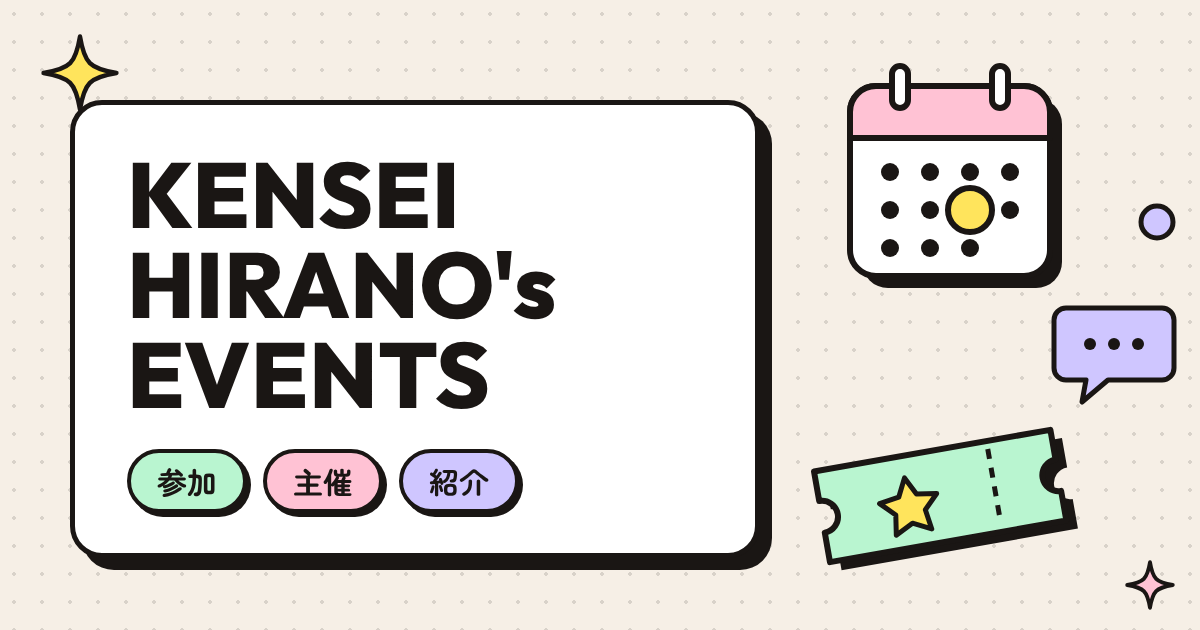
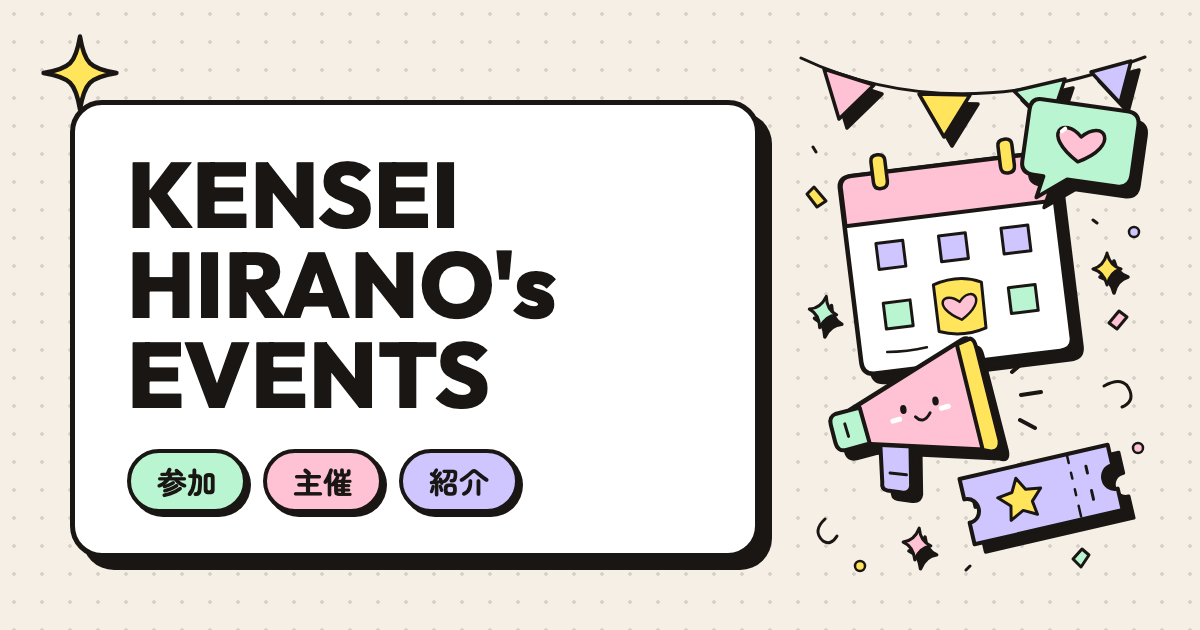
共有画像のイラストを Codex で描いたものに差し替える (#25)
- tools/og-share.html の右側の手描き SVG を Codex 製の SVG イラストに置き換え
- images/og-share.png を 1200×630 で撮り直し
- og:image / twitter:image を ?v=3 に更新

diff --git a/tools/og-share.html b/tools/og-share.html
@@ -13,33 +13,103 @@ svg{position:absolute;overflow:visible}
 </style></head><body>
 <!-- sparkle top-left -->
 <svg style="left:40px;top:28px" width="80" height="90" viewBox="0 0 90 90"><path d="M45 4 C50 34 56 40 86 45 C56 50 50 56 45 86 C40 56 34 50 4 45 C34 40 40 34 45 4Z" fill="var(--yel)" stroke="#1a1614" stroke-width="5" stroke-linejoin="round"/></svg>
-<!-- calendar -->
-<svg style="left:840px;top:58px" width="250" height="250" viewBox="0 0 250 250">
- <rect x="22" y="40" width="200" height="190" rx="26" fill="#1a1614"/>
- <rect x="10" y="28" width="200" height="190" rx="26" fill="#fff" stroke="#1a1614" stroke-width="6"/>
- <path d="M10 54 a26 26 0 0 1 26-26 h148 a26 26 0 0 1 26 26 v26 h-200z" fill="var(--pink)" stroke="#1a1614" stroke-width="6" stroke-linejoin="round"/>
- <rect x="52" y="8" width="16" height="42" rx="8" fill="#fff" stroke="#1a1614" stroke-width="6"/>
- <rect x="152" y="8" width="16" height="42" rx="8" fill="#fff" stroke="#1a1614" stroke-width="6"/>
- <g fill="#1a1614"><circle cx="50" cy="114" r="9"/><circle cx="90" cy="114" r="9"/><circle cx="130" cy="114" r="9"/><circle cx="170" cy="114" r="9"/><circle cx="50" cy="152" r="9"/><circle cx="90" cy="152" r="9"/><circle cx="170" cy="152" r="9"/><circle cx="50" cy="190" r="9"/><circle cx="90" cy="190" r="9"/><circle cx="130" cy="190" r="9"/></g>
- <circle cx="130" cy="152" r="22" fill="var(--yel)" stroke="#1a1614" stroke-width="6"/>
+<!-- illustration (drawn by Codex) -->
+<svg style="left:780px;top:30px" xmlns="http://www.w3.org/2000/svg" width="400" height="570" viewBox="0 0 400 570" fill="none" stroke="#1a1614" stroke-width="3.5" stroke-linecap="round" stroke-linejoin="round">
+  <defs>
+    <path id="calendar" d="M70 145 Q70 134 83 134 H269 Q282 134 282 147 V321 Q282 333 269 333 H83 Q70 333 70 320 Z"/>
+    <path id="bubble" d="M255 75 Q244 75 244 87 V139 Q244 151 257 151 H267 L263 173 L291 151 H341 Q354 151 354 138 V88 Q354 75 341 75 Z"/>
+    <path id="ticket" d="M185 431 H337 V452 C321 452 321 476 337 476 V498 H185 V476 C201 476 201 452 185 452 Z"/>
+    <path id="horn" d="M72 372 L193 318 Q201 315 202 326 L213 424 Q214 436 204 431 L83 408 Z"/>
+    <path id="sparkle" d="M0-16 Q3-3 14 0 Q3 3 0 16 Q-3 3-14 0 Q-3-3 0-16 Z"/>
+  </defs>
+
+  <!-- A loose string of party pennants. -->
+  <path d="M21 28 Q173 100 365 27" stroke-width="3"/>
+  <g transform="translate(8 9)" fill="#1a1614">
+    <path d="M44 39 L94 55 L59 89 Z"/>
+    <path d="M139 64 L190 65 L164 107 Z"/>
+    <path d="M234 61 L285 49 L269 96 Z"/>
+    <path d="M311 42 L351 31 L340 73 Z"/>
+  </g>
+  <path d="M44 39 L94 55 L59 89 Z" fill="#ffc2d4"/>
+  <path d="M139 64 L190 65 L164 107 Z" fill="#ffe45c"/>
+  <path d="M234 61 L285 49 L269 96 Z" fill="#b9f5d0"/>
+  <path d="M311 42 L351 31 L340 73 Z" fill="#cfc6ff"/>
+
+  <!-- A calendar with one much-loved day. -->
+  <g transform="rotate(-7 176 234)">
+    <use href="#calendar" transform="translate(9 10)" fill="#1a1614"/>
+    <use href="#calendar" fill="#ffffff" stroke-width="4.5"/>
+    <path d="M71 183 V147 Q70 134 83 134 H269 Q282 134 282 147 V183 Z" fill="#ffc2d4" stroke-width="4"/>
+    <path d="M104 143 V122 Q104 116 111 116 Q118 116 118 122 V143 Q118 150 111 150 Q104 150 104 143 Z" fill="#ffe45c"/>
+    <path d="M232 143 V122 Q232 116 239 116 Q246 116 246 122 V143 Q246 150 239 150 Q232 150 232 143 Z" fill="#ffe45c"/>
+    <path d="M99 204 H126 V230 H99 Z M162 204 H189 V230 H162 Z M225 204 H252 V230 H225 Z" fill="#cfc6ff" stroke-width="3"/>
+    <path d="M99 264 H126 V290 H99 Z M225 264 H252 V290 H225 Z" fill="#b9f5d0" stroke-width="3"/>
+    <path d="M151 252 Q177 244 199 255 L198 301 Q174 308 151 299 Z" fill="#ffe45c" stroke-width="3"/>
+    <path d="M175 290 C145 273 161 258 175 272 C188 256 205 273 175 290 Z" fill="#ffc2d4" stroke-width="2.5"/>
+    <path d="M97 313 Q117 315 137 313" stroke-width="2.5"/>
+  </g>
+
+  <!-- A friendly conversation above the calendar. -->
+  <g transform="rotate(8 300 123)">
+    <use href="#bubble" transform="translate(9 9)" fill="#1a1614"/>
+    <use href="#bubble" fill="#b9f5d0" stroke-width="4"/>
+    <path d="M299 132 C258 109 279 88 299 107 C319 85 340 110 299 132 Z" fill="#ffc2d4"/>
+    <path d="M279 104 L282 101" stroke="#ffffff" stroke-width="4"/>
+  </g>
+
+  <!-- The little megaphone is ready to invite everyone. -->
+  <g transform="rotate(-8 128 391)">
+    <g transform="translate(9 10)" fill="#1a1614">
+      <path d="M98 403 L128 408 L122 456 Q120 463 112 461 L98 457 Q92 455 94 448 Z"/>
+      <use href="#horn"/>
+      <path d="M57 374 L82 371 L87 408 L63 411 Q54 412 53 402 L51 384 Q50 376 57 374 Z"/>
+    </g>
+    <path d="M98 403 L128 408 L122 456 Q120 463 112 461 L98 457 Q92 455 94 448 Z" fill="#cfc6ff" stroke-width="4"/>
+    <path d="M103 440 L119 444" stroke-width="3"/>
+    <use href="#horn" fill="#ffc2d4" stroke-width="4.5"/>
+    <path d="M187 322 L201 318 Q205 319 206 329 L216 423 Q216 433 207 433 L198 430 Z" fill="#ffe45c" stroke-width="4"/>
+    <path d="M57 374 L82 371 L87 408 L63 411 Q54 412 53 402 L51 384 Q50 376 57 374 Z" fill="#b9f5d0" stroke-width="4"/>
+    <path d="M65 385 L67 398" stroke-width="3"/>
+    <ellipse cx="125" cy="379" rx="3.2" ry="4.5" fill="#1a1614" stroke="none"/>
+    <ellipse cx="158" cy="375" rx="3.2" ry="4.5" fill="#1a1614" stroke="none"/>
+    <path d="M136 388 Q143 397 151 386" stroke-width="3"/>
+    <path d="M113 389 L120 388 M163 383 L170 382" stroke="#ffffff" stroke-width="5"/>
+  </g>
+  <path d="M232 342 L245 331 M241 365 L261 362 M240 390 L255 398" stroke-width="4"/>
+
+  <!-- A keepsake ticket tucked into the foreground. -->
+  <g transform="rotate(-13 261 464)">
+    <use href="#ticket" transform="translate(9 10)" fill="#1a1614"/>
+    <use href="#ticket" fill="#cfc6ff" stroke-width="4"/>
+    <path d="M295 433 V440 M295 450 V456 M295 467 V473 M295 484 V495" stroke-width="2.5"/>
+    <path d="M240 443 L247 456 L262 458 L251 469 L253 483 L240 476 L226 483 L229 469 L218 458 L233 456 Z" fill="#ffe45c" stroke-width="3"/>
+    <path d="M311 447 V454 M311 472 V481" stroke-width="3"/>
+  </g>
+
+  <!-- Scattered handmade party bits and four-point stars. -->
+  <g transform="translate(327 239)">
+    <use href="#sparkle" transform="translate(7 8)" fill="#1a1614"/>
+    <use href="#sparkle" fill="#ffe45c" stroke-width="3"/>
+  </g>
+  <g transform="translate(43 282) rotate(12)">
+    <use href="#sparkle" transform="translate(7 8)" fill="#1a1614"/>
+    <use href="#sparkle" fill="#b9f5d0" stroke-width="3"/>
+  </g>
+  <g transform="translate(137 514) rotate(8)">
+    <use href="#sparkle" transform="translate(7 8)" fill="#1a1614"/>
+    <use href="#sparkle" fill="#ffc2d4" stroke-width="3"/>
+  </g>
+  <path d="M329 293 L339 281 L347 287 L337 299 Z" fill="#ffc2d4" stroke-width="3"/>
+  <path d="M37 177 L27 164 L34 157 L46 171 Z" fill="#ffe45c" stroke-width="3"/>
+  <path d="M293 529 L302 519 L309 525 L301 537 Z" fill="#b9f5d0" stroke-width="3"/>
+  <path d="M324 356 Q344 345 350 361 Q354 372 342 377" stroke-width="3"/>
+  <path d="M45 489 Q32 501 43 511 Q51 516 57 506" stroke-width="3"/>
+  <circle cx="354" cy="202" r="5" fill="#cfc6ff" stroke-width="2.5"/>
+  <circle cx="80" cy="536" r="5" fill="#ffe45c" stroke-width="2.5"/>
+  <circle cx="358" cy="418" r="5" fill="#ffc2d4" stroke-width="2.5"/>
+  <path d="M33 117 L36 122 M313 190 L317 193 M186 540 L190 536" stroke-width="3"/>
 </svg>
-<!-- ticket -->
-<svg style="left:790px;top:410px" width="300" height="170" viewBox="0 0 300 170">
- <g transform="rotate(-10 150 85)">
- <path d="M30 40 h240 v30 a16 16 0 0 0 0 32 v30 h-240 v-30 a16 16 0 0 0 0-32z" transform="translate(10 10)" fill="#1a1614"/>
- <path d="M30 40 h240 v30 a16 16 0 0 0 0 32 v30 h-240 v-30 a16 16 0 0 0 0-32z" fill="var(--mint)" stroke="#1a1614" stroke-width="6" stroke-linejoin="round"/>
- <line x1="205" y1="48" x2="205" y2="124" stroke="#1a1614" stroke-width="5" stroke-dasharray="10 9"/>
- <path d="M118 62 l9 18 20 3 -14 14 3 20 -18-9 -18 9 3-20 -14-14 20-3z" fill="var(--yel)" stroke="#1a1614" stroke-width="5" stroke-linejoin="round"/>
- </g>
-</svg>
-<!-- speech bubble -->
-<svg style="left:1050px;top:300px" width="130" height="110" viewBox="0 0 130 110">
- <path d="M16 8 h96 a12 12 0 0 1 12 12 v48 a12 12 0 0 1 -12 12 h-54 l-26 22 4-22 h-20 a12 12 0 0 1 -12-12 v-48 a12 12 0 0 1 12-12z" fill="var(--lav)" stroke="#1a1614" stroke-width="5" stroke-linejoin="round"/>
- <g fill="#1a1614"><circle cx="40" cy="44" r="6"/><circle cx="64" cy="44" r="6"/><circle cx="88" cy="44" r="6"/></g>
-</svg>
-<!-- small sparkles -->
-<svg style="left:1125px;top:560px" width="50" height="50" viewBox="0 0 90 90"><path d="M45 4 C50 34 56 40 86 45 C56 50 50 56 45 86 C40 56 34 50 4 45 C34 40 40 34 45 4Z" fill="var(--pink)" stroke="#1a1614" stroke-width="7" stroke-linejoin="round"/></svg>
-<svg style="left:1135px;top:200px" width="44" height="44" viewBox="0 0 44 44"><circle cx="22" cy="22" r="16" fill="var(--lav)" stroke="#1a1614" stroke-width="5"/></svg>
 <div class="card">
  <h1>KENSEI<br>HIRANO's<br>EVENTS</h1>
  <div class="tags"><span class="tag" style="background:var(--mint)">参加</span><span class="tag" style="background:var(--pink)">主催</span><span class="tag" style="background:var(--lav)">紹介</span></div>

diff --git a/index.html b/index.html
@@ -10,13 +10,13 @@
   <meta property="og:title" content="KENSEI HIRANO's EVENTS">
   <meta property="og:description" content="平野賢正が参加・主催・紹介するイベント。">
   <meta property="og:url" content="https://koenma777.github.io/event/">
-  <meta property="og:image" content="https://koenma777.github.io/event/images/og-share.png?v=2">
+  <meta property="og:image" content="https://koenma777.github.io/event/images/og-share.png?v=3">
   <meta property="og:image:width" content="1200">
   <meta property="og:image:height" content="630">
   <meta name="twitter:card" content="summary_large_image">
   <meta name="twitter:title" content="KENSEI HIRANO's EVENTS">
   <meta name="twitter:description" content="平野賢正が参加・主催・紹介するイベント。">
-  <meta name="twitter:image" content="https://koenma777.github.io/event/images/og-share.png?v=2">
+  <meta name="twitter:image" content="https://koenma777.github.io/event/images/og-share.png?v=3">
   <title>KENSEI HIRANO's EVENTS</title>
   <link rel="preconnect" href="https://fonts.googleapis.com">
   <link rel="preconnect" href="https://fonts.gstatic.com" crossorigin>
